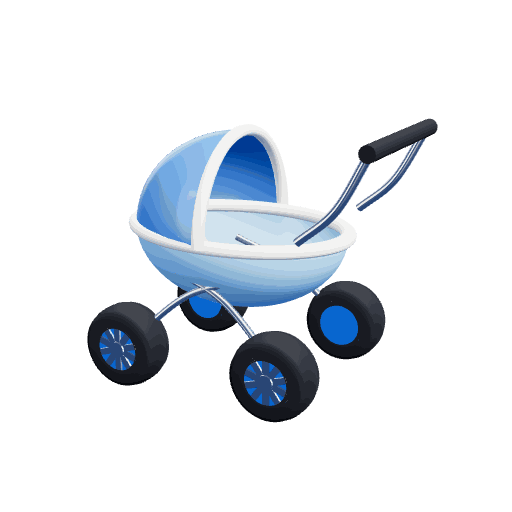
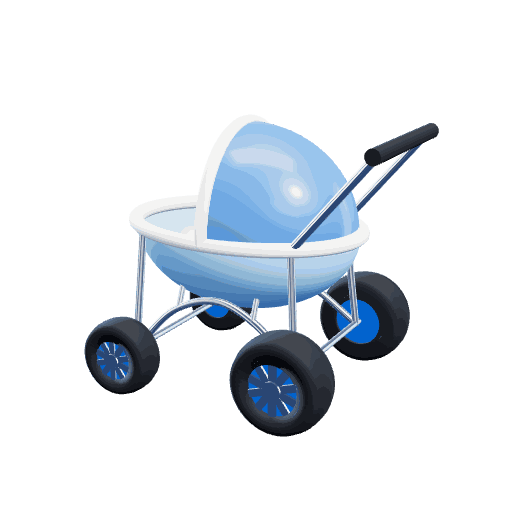
Globo e carrinho 3D consertados; Salvar fixo no Editar sonho e, ao salvar, abre o detalhe com a entrada 3D

Changed region(s): [[0.1562, 0.2188, 0.875, 0.875]]

diff --git a/app/basico.js b/app/basico.js
@@ -2040,7 +2040,7 @@ function basTelaRetro(o) {
       <div class="rt-gw${caiu ? ' dn' : ''}" data-p="${esc(JSON.stringify(pts.map((p) => [+p[0].toFixed(1), +p[1].toFixed(1)])))}"><svg class="rt-graf" viewBox="0 0 300 ${GH}"><defs><linearGradient id="rtA" x1="0" y1="0" x2="0" y2="1"><stop offset="0" stop-color="${caiu ? '#FF8A9A' : '#8FB0FF'}" stop-opacity=".5"/><stop offset="1" stop-color="${caiu ? '#FF8A9A' : '#8FB0FF'}" stop-opacity="0"/></linearGradient></defs>
       ${[.22, .45, .68, .9].map((f) => Math.round(f * GH)).map((y) => `<line x1="0" x2="300" y1="${y}" y2="${y}"/>`).join('')}<path class="ar" d="${lin} L${ult[0].toFixed(1)} ${GH} L${pts[0][0].toFixed(1)} ${GH} Z"/><path class="ln" pathLength="1" d="${lin}"/><circle class="pt" cx="${ult[0].toFixed(1)}" cy="${ult[1].toFixed(1)}" r="7"/></svg>
       <div class="rt-gm">${rot.map((r) => `<span>${r}</span>`).join('')}</div></div>`],
-    ...(g ? [['sonho', 'azul', '', `<div class="rt-sonho o3" data-tipo="${esc(obj3dDe(g))}"><i class="rt-orb"></i><i class="rt-halo"></i>${Array.from({ length: 5 }, (_, k) => `<i class="rt-est" style="--k:${k}"></i>`).join('')}<div class="rt-o3">${obj3dHtml(obj3dDe(g))}</div><img src="assets/img/o3/${esc(obj3dDe(g))}.png?v=3" alt=""><span class="bas-rt-si">${objIcone(g, 0)}</span></div>
+    ...(g ? [['sonho', 'azul', '', `<div class="rt-sonho o3" data-tipo="${esc(obj3dDe(g))}"><i class="rt-orb"></i><i class="rt-halo"></i>${Array.from({ length: 5 }, (_, k) => `<i class="rt-est" style="--k:${k}"></i>`).join('')}<div class="rt-o3">${obj3dHtml(obj3dDe(g))}</div><img src="assets/img/o3/${esc(obj3dDe(g))}.png?v=4" alt=""><span class="bas-rt-si">${objIcone(g, 0)}</span></div>
       <small>Seu sonho</small><h3 class="rt-h">${basRtKt(esc(objNomeDe(g)))}</h3><div class="bas-rt-sb"><i style="--p:${Math.min(1, g.progresso || 0).toFixed(3)}"></i></div><p><em>${pct(g.progresso || 0)}</em> do caminho${g.falta > 0 ? ` · faltam ${brl0(g.falta)}` : ' · chegou lá!'}</p>`]] : []),
     ['fim', 'fim', ruim ? '' : `<div class="rt-confete">${Array.from({ length: 26 }, (_, k) => `<i style="--x:${(k * 29 + 3) % 98}%;--d:${((k * 0.17) % 1.6).toFixed(2)}s;--r:${(k % 2 ? 1 : -1) * (360 + (k % 5) * 140)}deg;--c:${['#FFFFFF', '#FFD66B', '#8CF7B8', '#A9C2FF', '#FF9EC2'][k % 5]}"></i>`).join('')}</div>`,
       `<small>Esse foi o seu ${MES_LONGO[m]}</small><h2 class="rt-h">${basRtKt(ruim ? 'Mês fechado. Bora ajustar a rota.' : 'Mês fechado. Bonito de ver.')}</h2><div class="bas-rt-res"><span><small>Entrou</small><b>${brl0(ent)}</b></span><span><small>Saiu</small><b${estourou ? ' class="neg"' : ''}>${brl0(sai)}</b></span>${falta ? `<span><small>Faltou</small><b class="neg">${brl0(-sob)}</b></span>` : `<span><small>Guardou</small><b>${pct(guardP)}</b></span>`}${resg ? `<span><small>Resgatou</small><b class="neg">${brl0(-apM)}</b></span>` : `<span><small>Investiu</small><b>${brl0(apM)}</b></span>`}</div>
@@ -2496,7 +2496,7 @@ const r2Bas = (v) => Math.round((+v || 0) * 100) / 100;
 // ===== Sonhos, refeitos (pedido do Nathan, referências de apps de bolsos e do fluxo de criação do Believe) =====
 // arte do sonho: a miniatura do objeto 3D (desenhada uma vez, objMiniLigar) sobre um degradê; sem WebGL fica o ícone
 const basSnPct = (g) => (Math.max(0, Math.min(1, +g.progresso || 0)) * 100).toFixed(1);
-const basSnArte = (g, i, cls) => `<span class="bas-sn2-arte${cls ? ' ' + cls : ''}" aria-hidden="true"><span class="bas-sn2-ic">${objIcone(g, i || 0)}</span><img class="o3p" alt="" src="assets/img/o3/${esc(obj3dDe(g))}.png?v=3" decoding="async"></span>`;
+const basSnArte = (g, i, cls) => `<span class="bas-sn2-arte${cls ? ' ' + cls : ''}" aria-hidden="true"><span class="bas-sn2-ic">${objIcone(g, i || 0)}</span><img class="o3p" alt="" src="assets/img/o3/${esc(obj3dDe(g))}.png?v=4" decoding="async"></span>`;
 function basTelaSonhos() {
   const A = objAnalise(); const g = objFoco(A); const L = A.itens;
   const topo = g ? `<div class="bas-sn2-hero"><span class="bas-sn2-flut">${basSnArte(g, 0, 'hero')}</span>
@@ -2539,7 +2539,7 @@ function basTelaSonhoEd(o) {
   const topo = `<div class="bas-sn2-hero bas-sne-hero"><span class="bas-sn2-flut">${basSnArte({ tipo: st.tipo, modelo: st.modelo }, 0, 'hero')}</span><small class="bas-pv2-k">Editando</small><b class="bas-sn2-hn">${esc(st.nome || nomeT(st.tipo))}</b></div>`;
   const folha = `<section class="bas-sne-sec"><small class="bas-sne-k">Tipo</small>
       <div class="bas-sne-tipos" role="radiogroup" aria-label="Tipo de sonho">${OBJETIVOS.map(([k, nm]) => `<button type="button" class="bas-sne-tp${k === st.tipo ? ' on' : ''}" data-act="bas-sne-tipo" data-v="${k}" role="radio" aria-checked="${k === st.tipo}">${basSnArte({ tipo: k }, 0, 'ri')}<span>${esc(nm)}</span></button>`).join('')}</div></section>
-    ${(typeof O3_VARIA !== 'undefined' && (O3_VARIA[st.tipo] || []).length > 1) ? `<section class="bas-sne-sec"><small class="bas-sne-k">Modelo</small><div class="bas-sne-mods" role="radiogroup" aria-label="Modelo do sonho">${O3_VARIA[st.tipo].map(([k, nm], i) => { const on = (st.modelo || O3_VARIA[st.tipo][0][0]) === k; return `<button type="button" class="bas-sne-tp${on ? ' on' : ''}" data-act="bas-sne-mod" data-v="${k}" role="radio" aria-checked="${on}"><span class="bas-sn2-arte ri" aria-hidden="true"><img class="o3p" alt="" src="assets/img/o3/${k}.png?v=3" decoding="async"></span><span>${esc(nm)}</span></button>`; }).join('')}</div></section>` : ''}
+    ${(typeof O3_VARIA !== 'undefined' && (O3_VARIA[st.tipo] || []).length > 1) ? `<section class="bas-sne-sec"><small class="bas-sne-k">Modelo</small><div class="bas-sne-mods" role="radiogroup" aria-label="Modelo do sonho">${O3_VARIA[st.tipo].map(([k, nm], i) => { const on = (st.modelo || O3_VARIA[st.tipo][0][0]) === k; return `<button type="button" class="bas-sne-tp${on ? ' on' : ''}" data-act="bas-sne-mod" data-v="${k}" role="radio" aria-checked="${on}"><span class="bas-sn2-arte ri" aria-hidden="true"><img class="o3p" alt="" src="assets/img/o3/${k}.png?v=4" decoding="async"></span><span>${esc(nm)}</span></button>`; }).join('')}</div></section>` : ''}
     <section class="card bas-sne-cx">
       <label class="bas-sne-l"><small>Nome</small><input data-sn2="nome" value="${esc(st.nome)}" placeholder="${esc(nomeT(st.tipo))}" maxlength="40" aria-label="Nome do sonho"></label>
       <label class="bas-sne-l"><small>Quanto custa</small><span class="bas-sne-rs"><em>R$</em><input data-sn2="valor" value="${esc(st.valor)}" inputmode="decimal" placeholder="0" aria-label="Quanto custa, em reais"></span></label>
@@ -2547,7 +2547,7 @@ function basTelaSonhoEd(o) {
         <button type="button" class="bas-sn2-semp bas-sne-semp${st.ano ? '' : ' on'}" data-act="bas-sn2-ano" data-v="0">Sem prazo</button></div></section>
     <section class="card bas-sne-cx">${principal ? `<div class="bas-sne-pri on"><span class="bas-sne-pi" aria-hidden="true">★</span><span><b>Seu sonho principal</b><small>Ele aparece em destaque no Início</small></span></div>`
       : `<button type="button" class="bas-sne-pri" data-act="bas-foco" data-id="${esc(g.id)}"><span class="bas-sne-pi" aria-hidden="true">☆</span><span><b>Tornar o principal</b><small>Ele passa a aparecer em destaque no Início</small></span>${I.chev}</button>`}</section>
-    <button class="btn primary lg bas-cta bas-sne-ok" data-act="bas-sn2-criar">Salvar alterações</button>
+    <div class="bas-salvar bas-sne-salvar"><button class="btn primary lg bas-cta bas-sne-ok" data-act="bas-sn2-criar">Salvar alterações</button></div>
     <button type="button" class="bas-sne-del" data-act="bas-sn2-del">Excluir sonho</button>`;
   return basPgAzul('bas-pg-sne', 'Editar sonho', topo, folha);
 }
@@ -2662,7 +2662,10 @@ function basVozLigar() {
 function basSn2Criar() {
   const st = S.basSn2; const L = objLista();
   if (st.ed) { const g = L.find((x) => x.id === st.ed); const v = parseReais(st.valor); if (!g) return; if (!(v > 0)) { toast('Informe quanto o sonho custa.'); return; }
-    Object.assign(g, { tipo: st.tipo, nome: (st.nome || '').trim(), valor: E.r2(v), ano: st.ano || null }, st.modelo != null ? { modelo: st.modelo || '' } : {}); objSalvar(); basSom('ok'); basRetorno('ok'); basFechar(); toast('Sonho atualizado.'); return; }
+    Object.assign(g, { tipo: st.tipo, nome: (st.nome || '').trim(), valor: E.r2(v), ano: st.ano || null }, st.modelo != null ? { modelo: st.modelo || '' } : {}); objSalvar(); basSom('ok'); basRetorno('ok'); if (typeof O3 !== 'undefined' && O3) O3.tipo = ''; // a entrada 3D roda de novo
+    const pi = basPilha(); const ant = pi[pi.length - 2]; if (ant && ant.t === 'sonho-det' && ant.id === g.id) basFechar(); // veio do detalhe: volta para ele
+    else { pi[pi.length - 1] = { t: 'sonho-det', id: g.id, volta: pi[pi.length - 1].volta }; basTransicao('vai', () => { render(); window.scrollTo(0, 0); }); } // senão, o detalhe toma o lugar da edição
+    toast('Sonho atualizado.'); return; }
   if (L.length >= 12) { toast('Você chegou ao limite de 12 sonhos.'); return; }
   const v = parseReais(st.valor); if (!(v > 0)) { toast('Informe quanto o sonho custa.'); const i = document.querySelector('[data-sn2="valor"]'); if (i) i.focus(); return; }
   const alvo = Object.assign({ id: uid() }, L.length ? { modo: 'marco', pct: 0 } : { modo: 'fatia', pct: 100 }, { tipo: st.tipo, nome: (st.nome || '').trim(), valor: E.r2(v), ano: st.ano || null });

diff --git a/assets/js/basico.js b/assets/js/basico.js
@@ -2040,7 +2040,7 @@ function basTelaRetro(o) {
       <div class="rt-gw${caiu ? ' dn' : ''}" data-p="${esc(JSON.stringify(pts.map((p) => [+p[0].toFixed(1), +p[1].toFixed(1)])))}"><svg class="rt-graf" viewBox="0 0 300 ${GH}"><defs><linearGradient id="rtA" x1="0" y1="0" x2="0" y2="1"><stop offset="0" stop-color="${caiu ? '#FF8A9A' : '#8FB0FF'}" stop-opacity=".5"/><stop offset="1" stop-color="${caiu ? '#FF8A9A' : '#8FB0FF'}" stop-opacity="0"/></linearGradient></defs>
       ${[.22, .45, .68, .9].map((f) => Math.round(f * GH)).map((y) => `<line x1="0" x2="300" y1="${y}" y2="${y}"/>`).join('')}<path class="ar" d="${lin} L${ult[0].toFixed(1)} ${GH} L${pts[0][0].toFixed(1)} ${GH} Z"/><path class="ln" pathLength="1" d="${lin}"/><circle class="pt" cx="${ult[0].toFixed(1)}" cy="${ult[1].toFixed(1)}" r="7"/></svg>
       <div class="rt-gm">${rot.map((r) => `<span>${r}</span>`).join('')}</div></div>`],
-    ...(g ? [['sonho', 'azul', '', `<div class="rt-sonho o3" data-tipo="${esc(obj3dDe(g))}"><i class="rt-orb"></i><i class="rt-halo"></i>${Array.from({ length: 5 }, (_, k) => `<i class="rt-est" style="--k:${k}"></i>`).join('')}<div class="rt-o3">${obj3dHtml(obj3dDe(g))}</div><img src="assets/img/o3/${esc(obj3dDe(g))}.png?v=3" alt=""><span class="bas-rt-si">${objIcone(g, 0)}</span></div>
+    ...(g ? [['sonho', 'azul', '', `<div class="rt-sonho o3" data-tipo="${esc(obj3dDe(g))}"><i class="rt-orb"></i><i class="rt-halo"></i>${Array.from({ length: 5 }, (_, k) => `<i class="rt-est" style="--k:${k}"></i>`).join('')}<div class="rt-o3">${obj3dHtml(obj3dDe(g))}</div><img src="assets/img/o3/${esc(obj3dDe(g))}.png?v=4" alt=""><span class="bas-rt-si">${objIcone(g, 0)}</span></div>
       <small>Seu sonho</small><h3 class="rt-h">${basRtKt(esc(objNomeDe(g)))}</h3><div class="bas-rt-sb"><i style="--p:${Math.min(1, g.progresso || 0).toFixed(3)}"></i></div><p><em>${pct(g.progresso || 0)}</em> do caminho${g.falta > 0 ? ` · faltam ${brl0(g.falta)}` : ' · chegou lá!'}</p>`]] : []),
     ['fim', 'fim', ruim ? '' : `<div class="rt-confete">${Array.from({ length: 26 }, (_, k) => `<i style="--x:${(k * 29 + 3) % 98}%;--d:${((k * 0.17) % 1.6).toFixed(2)}s;--r:${(k % 2 ? 1 : -1) * (360 + (k % 5) * 140)}deg;--c:${['#FFFFFF', '#FFD66B', '#8CF7B8', '#A9C2FF', '#FF9EC2'][k % 5]}"></i>`).join('')}</div>`,
       `<small>Esse foi o seu ${MES_LONGO[m]}</small><h2 class="rt-h">${basRtKt(ruim ? 'Mês fechado. Bora ajustar a rota.' : 'Mês fechado. Bonito de ver.')}</h2><div class="bas-rt-res"><span><small>Entrou</small><b>${brl0(ent)}</b></span><span><small>Saiu</small><b${estourou ? ' class="neg"' : ''}>${brl0(sai)}</b></span>${falta ? `<span><small>Faltou</small><b class="neg">${brl0(-sob)}</b></span>` : `<span><small>Guardou</small><b>${pct(guardP)}</b></span>`}${resg ? `<span><small>Resgatou</small><b class="neg">${brl0(-apM)}</b></span>` : `<span><small>Investiu</small><b>${brl0(apM)}</b></span>`}</div>
@@ -2496,7 +2496,7 @@ const r2Bas = (v) => Math.round((+v || 0) * 100) / 100;
 // ===== Sonhos, refeitos (pedido do Nathan, referências de apps de bolsos e do fluxo de criação do Believe) =====
 // arte do sonho: a miniatura do objeto 3D (desenhada uma vez, objMiniLigar) sobre um degradê; sem WebGL fica o ícone
 const basSnPct = (g) => (Math.max(0, Math.min(1, +g.progresso || 0)) * 100).toFixed(1);
-const basSnArte = (g, i, cls) => `<span class="bas-sn2-arte${cls ? ' ' + cls : ''}" aria-hidden="true"><span class="bas-sn2-ic">${objIcone(g, i || 0)}</span><img class="o3p" alt="" src="assets/img/o3/${esc(obj3dDe(g))}.png?v=3" decoding="async"></span>`;
+const basSnArte = (g, i, cls) => `<span class="bas-sn2-arte${cls ? ' ' + cls : ''}" aria-hidden="true"><span class="bas-sn2-ic">${objIcone(g, i || 0)}</span><img class="o3p" alt="" src="assets/img/o3/${esc(obj3dDe(g))}.png?v=4" decoding="async"></span>`;
 function basTelaSonhos() {
   const A = objAnalise(); const g = objFoco(A); const L = A.itens;
   const topo = g ? `<div class="bas-sn2-hero"><span class="bas-sn2-flut">${basSnArte(g, 0, 'hero')}</span>
@@ -2539,7 +2539,7 @@ function basTelaSonhoEd(o) {
   const topo = `<div class="bas-sn2-hero bas-sne-hero"><span class="bas-sn2-flut">${basSnArte({ tipo: st.tipo, modelo: st.modelo }, 0, 'hero')}</span><small class="bas-pv2-k">Editando</small><b class="bas-sn2-hn">${esc(st.nome || nomeT(st.tipo))}</b></div>`;
   const folha = `<section class="bas-sne-sec"><small class="bas-sne-k">Tipo</small>
       <div class="bas-sne-tipos" role="radiogroup" aria-label="Tipo de sonho">${OBJETIVOS.map(([k, nm]) => `<button type="button" class="bas-sne-tp${k === st.tipo ? ' on' : ''}" data-act="bas-sne-tipo" data-v="${k}" role="radio" aria-checked="${k === st.tipo}">${basSnArte({ tipo: k }, 0, 'ri')}<span>${esc(nm)}</span></button>`).join('')}</div></section>
-    ${(typeof O3_VARIA !== 'undefined' && (O3_VARIA[st.tipo] || []).length > 1) ? `<section class="bas-sne-sec"><small class="bas-sne-k">Modelo</small><div class="bas-sne-mods" role="radiogroup" aria-label="Modelo do sonho">${O3_VARIA[st.tipo].map(([k, nm], i) => { const on = (st.modelo || O3_VARIA[st.tipo][0][0]) === k; return `<button type="button" class="bas-sne-tp${on ? ' on' : ''}" data-act="bas-sne-mod" data-v="${k}" role="radio" aria-checked="${on}"><span class="bas-sn2-arte ri" aria-hidden="true"><img class="o3p" alt="" src="assets/img/o3/${k}.png?v=3" decoding="async"></span><span>${esc(nm)}</span></button>`; }).join('')}</div></section>` : ''}
+    ${(typeof O3_VARIA !== 'undefined' && (O3_VARIA[st.tipo] || []).length > 1) ? `<section class="bas-sne-sec"><small class="bas-sne-k">Modelo</small><div class="bas-sne-mods" role="radiogroup" aria-label="Modelo do sonho">${O3_VARIA[st.tipo].map(([k, nm], i) => { const on = (st.modelo || O3_VARIA[st.tipo][0][0]) === k; return `<button type="button" class="bas-sne-tp${on ? ' on' : ''}" data-act="bas-sne-mod" data-v="${k}" role="radio" aria-checked="${on}"><span class="bas-sn2-arte ri" aria-hidden="true"><img class="o3p" alt="" src="assets/img/o3/${k}.png?v=4" decoding="async"></span><span>${esc(nm)}</span></button>`; }).join('')}</div></section>` : ''}
     <section class="card bas-sne-cx">
       <label class="bas-sne-l"><small>Nome</small><input data-sn2="nome" value="${esc(st.nome)}" placeholder="${esc(nomeT(st.tipo))}" maxlength="40" aria-label="Nome do sonho"></label>
       <label class="bas-sne-l"><small>Quanto custa</small><span class="bas-sne-rs"><em>R$</em><input data-sn2="valor" value="${esc(st.valor)}" inputmode="decimal" placeholder="0" aria-label="Quanto custa, em reais"></span></label>
@@ -2547,7 +2547,7 @@ function basTelaSonhoEd(o) {
         <button type="button" class="bas-sn2-semp bas-sne-semp${st.ano ? '' : ' on'}" data-act="bas-sn2-ano" data-v="0">Sem prazo</button></div></section>
     <section class="card bas-sne-cx">${principal ? `<div class="bas-sne-pri on"><span class="bas-sne-pi" aria-hidden="true">★</span><span><b>Seu sonho principal</b><small>Ele aparece em destaque no Início</small></span></div>`
       : `<button type="button" class="bas-sne-pri" data-act="bas-foco" data-id="${esc(g.id)}"><span class="bas-sne-pi" aria-hidden="true">☆</span><span><b>Tornar o principal</b><small>Ele passa a aparecer em destaque no Início</small></span>${I.chev}</button>`}</section>
-    <button class="btn primary lg bas-cta bas-sne-ok" data-act="bas-sn2-criar">Salvar alterações</button>
+    <div class="bas-salvar bas-sne-salvar"><button class="btn primary lg bas-cta bas-sne-ok" data-act="bas-sn2-criar">Salvar alterações</button></div>
     <button type="button" class="bas-sne-del" data-act="bas-sn2-del">Excluir sonho</button>`;
   return basPgAzul('bas-pg-sne', 'Editar sonho', topo, folha);
 }
@@ -2662,7 +2662,10 @@ function basVozLigar() {
 function basSn2Criar() {
   const st = S.basSn2; const L = objLista();
   if (st.ed) { const g = L.find((x) => x.id === st.ed); const v = parseReais(st.valor); if (!g) return; if (!(v > 0)) { toast('Informe quanto o sonho custa.'); return; }
-    Object.assign(g, { tipo: st.tipo, nome: (st.nome || '').trim(), valor: E.r2(v), ano: st.ano || null }, st.modelo != null ? { modelo: st.modelo || '' } : {}); objSalvar(); basSom('ok'); basRetorno('ok'); basFechar(); toast('Sonho atualizado.'); return; }
+    Object.assign(g, { tipo: st.tipo, nome: (st.nome || '').trim(), valor: E.r2(v), ano: st.ano || null }, st.modelo != null ? { modelo: st.modelo || '' } : {}); objSalvar(); basSom('ok'); basRetorno('ok'); if (typeof O3 !== 'undefined' && O3) O3.tipo = ''; // a entrada 3D roda de novo
+    const pi = basPilha(); const ant = pi[pi.length - 2]; if (ant && ant.t === 'sonho-det' && ant.id === g.id) basFechar(); // veio do detalhe: volta para ele
+    else { pi[pi.length - 1] = { t: 'sonho-det', id: g.id, volta: pi[pi.length - 1].volta }; basTransicao('vai', () => { render(); window.scrollTo(0, 0); }); } // senão, o detalhe toma o lugar da edição
+    toast('Sonho atualizado.'); return; }
   if (L.length >= 12) { toast('Você chegou ao limite de 12 sonhos.'); return; }
   const v = parseReais(st.valor); if (!(v > 0)) { toast('Informe quanto o sonho custa.'); const i = document.querySelector('[data-sn2="valor"]'); if (i) i.focus(); return; }
   const alvo = Object.assign({ id: uid() }, L.length ? { modo: 'marco', pct: 0 } : { modo: 'fatia', pct: 100 }, { tipo: st.tipo, nome: (st.nome || '').trim(), valor: E.r2(v), ano: st.ano || null });

diff --git a/assets/js/obj3d.js b/assets/js/obj3d.js
@@ -772,17 +772,17 @@ const O3_OBJ = {
       x.fillStyle = '#F4F8FC'; x.fillRect(0, h * 0.93, w, h * 0.07); }, 1024, 512);
     const globo = new T.Group(); globo.position.y = 0.2; globo.rotation.z = -0.41; g.add(globo); // eixo inclinado como o da Terra
     const terra = new T.Mesh(new T.SphereGeometry(0.62, 64, 40), new T.MeshPhysicalMaterial({ map: mapa, roughness: 0.35, clearcoat: 0.8, clearcoatRoughness: 0.1 })); terra.rotation.y = -0.6; globo.add(o3Pose(terra));
-    const arco = o3Arco(0.69, 0.022, Math.PI * 1.15, M.ouro, 80); arco.rotation.z = Math.PI / 2 - 0.08; globo.add(arco);
-    [0.7, -0.7].forEach((y) => { const p = new T.Mesh(new T.SphereGeometry(0.035, 16, 12), M.ouro); p.position.y = y; globo.add(p); });
-    const pe = new T.Vector3(0, -0.72, 0).applyAxisAngle(new T.Vector3(0, 0, 1), -0.41); pe.y += 0.2; // pé do meridiano
-    const haste = new T.Mesh(new T.CylinderGeometry(0.035, 0.05, pe.y + 0.76, 16), M.ouro); haste.position.set(pe.x, (pe.y - 0.76) / 2, 0); g.add(haste);
-    const base = o3Tambor(0.36, 0.1, 0.04, M.madeira); base.position.set(pe.x, -0.8, 0); g.add(base);
-    // órbita: grupo inclinado; o avião e o rastro giram juntos em torno do globo
+    // meridiano: anel concêntrico ao globo, no plano do eixo; sai do polo norte, passa pelo polo sul e termina no ponto mais baixo, onde a haste reta encaixa
+    const inc = 0.41, Rm = 0.69, aN = Math.PI / 2 - inc; const arco = o3Arco(Rm, 0.022, Math.PI * 1.5 - aN, M.ouro, 80); arco.rotation.z = aN; arco.position.y = 0.2; g.add(arco);
+    [1, -1].forEach((k) => { const eixo = new T.Mesh(new T.CylinderGeometry(0.016, 0.016, 0.12, 12), M.ouro); eixo.position.y = k * 0.65; globo.add(eixo); const p = new T.Mesh(new T.SphereGeometry(0.035, 16, 12), M.ouro); p.position.y = k * Rm; globo.add(p); }); // pinos nos polos
+    const haste = new T.Mesh(new T.CylinderGeometry(0.035, 0.05, 0.26, 16), M.ouro); haste.position.y = 0.2 - Rm - 0.13; g.add(haste);
+    const base = o3Tambor(0.36, 0.1, 0.04, M.madeira); base.position.y = -0.8; g.add(base);
+    // órbita: grupo inclinado; o avião e o rastro giram juntos em torno do globo (rastro curto: some junto com o avião atrás do globo)
     const orb = new T.Group(); orb.position.y = 0.2; orb.rotation.set(0.35, 0, 0.22); g.add(orb); const voo = new T.Group(); orb.add(o3Pose(voo)); const R = 0.92;
     const av = new T.Group(); const S = new T.SphereGeometry(1, 24, 16); const fu = new T.Mesh(S, M.branco); fu.scale.set(0.045, 0.045, 0.17); av.add(fu);
     const asa = o3Bloco(0.34, 0.016, 0.08, 0.008, M.branco); asa.position.z = 0.01; av.add(asa); const cau = o3Bloco(0.012, 0.07, 0.05, 0.006, M.azul); cau.position.set(0, 0.045, -0.13); av.add(cau);
-    const est = o3Bloco(0.13, 0.012, 0.04, 0.006, M.branco); est.position.z = -0.13; av.add(est); av.position.set(R, 0, 0); av.rotation.set(0, Math.PI, 0.25); voo.add(av); // nariz em +z: tangente à órbita
-    const pts = new T.InstancedMesh(new T.SphereGeometry(0.013, 8, 6), M.nuvem, 14); const mx = new T.Matrix4(); for (let i = 0; i < 14; i++) { const a = -0.22 - i * 0.12; mx.makeTranslation(Math.cos(a) * R, 0, -Math.sin(a) * R); pts.setMatrixAt(i, mx); } voo.add(pts);
+    const est = o3Bloco(0.13, 0.012, 0.04, 0.006, M.branco); est.position.z = -0.13; av.add(est); av.position.set(R, 0, 0); av.rotation.set(0, Math.PI, 0.25); av.scale.setScalar(1.25); voo.add(av); // nariz em +z: tangente à órbita
+    const pts = new T.InstancedMesh(new T.SphereGeometry(0.013, 8, 6), M.nuvem, 8); const mx = new T.Matrix4(); for (let i = 0; i < 8; i++) { const a = -0.2 - i * 0.1; mx.makeTranslation(Math.cos(a) * R, 0, -Math.sin(a) * R); pts.setMatrixAt(i, mx); } voo.add(pts);
     voo.rotation.y = 0.55; o3Pose(voo);
     g.rotation.set(0.12, 0, 0); g.userData.dur = 2.1;
     g.userData.entra = (e, t) => {
@@ -820,23 +820,30 @@ const O3_OBJ = {
     };
     return g;
   },
-  // carrinho de bebê: cesto e capota azul-bebê com frisos, alça, armação cromada e quatro rodas; chega rodando, balança e a capota abre
+  // carrinho de bebê: cesto e capota azul-bebê com frisos, armação cromada inteira (eixos, arcos sob o cesto, montantes até a borda e alça), rodas de trás maiores; chega rodando, balança e a capota abre
   'filhos-carrinho'(M) {
     const T = THREE; const g = new T.Group(); const car = new T.Group(); g.add(car); const cesto = new T.Group(); car.add(cesto); const DS = T.DoubleSide;
     const azul = o3Cor(0x8CC4F0, { roughness: 0.4, side: DS }); const capM = o3Cor(0x3C77C9, { roughness: 0.42, side: DS }); const creme = o3Cor(0xFFF6E6, { roughness: 0.45 });
     const bojo = new T.Mesh(new T.SphereGeometry(0.5, 48, 20, 0, Math.PI * 2, Math.PI / 2, Math.PI / 2), azul); bojo.scale.set(1.15, 0.8, 0.82); cesto.add(bojo);
     const borda = new T.Mesh(new T.TorusGeometry(0.5, 0.035, 12, 64), creme); borda.rotation.x = Math.PI / 2; borda.scale.set(1.15, 0.82, 1); cesto.add(borda);
-    const capota = new T.Group(); capota.position.x = 0.02; cesto.add(capota); const cp = new T.Mesh(new T.SphereGeometry(0.52, 40, 16, -Math.PI / 2, Math.PI, 0, Math.PI / 2), capM); cp.scale.set(1.12, 0.95, 0.84); capota.add(cp);
+    // capota do lado da alça (+x), sobre a cabeça do bebê
+    const capota = new T.Group(); cesto.add(capota); const cp = new T.Mesh(new T.SphereGeometry(0.52, 40, 16, Math.PI / 2, Math.PI, 0, Math.PI / 2), capM); cp.scale.set(1.08, 0.95, 0.8); capota.add(cp);
     const fr = o3Arco(0.52, 0.03, Math.PI, creme, 48); fr.rotation.y = Math.PI / 2; cp.add(fr); // friso na beira da capota
     o3Pose(capota); cesto.position.y = 0.78;
-    const tubo = (pts, r, mat) => { const c = new T.CatmullRomCurve3(pts.map(([x, y, z]) => new T.Vector3(x, y, z))); const m = o3Tubo(c, 32, r, mat); car.add(m); return m; };
-    tubo([[0.5, 0.86, 0.36], [0.68, 1.02, 0.36], [0.84, 1.3, 0.36]], 0.022, M.cromo); tubo([[0.5, 0.86, -0.36], [0.68, 1.02, -0.36], [0.84, 1.3, -0.36]], 0.022, M.cromo);
-    const pega = new T.Mesh(new T.CylinderGeometry(0.04, 0.04, 0.8, 16), M.borracha); pega.rotation.x = Math.PI / 2; pega.position.set(0.84, 1.3, 0); car.add(pega);
-    [1, -1].forEach((d) => { tubo([[-0.42, 0.22, d * 0.38], [-0.1, 0.5, d * 0.34], [0.2, 0.62, d * 0.32]], 0.018, M.cromo); tubo([[0.42, 0.22, d * 0.38], [0.1, 0.5, d * 0.34], [-0.2, 0.62, d * 0.32]], 0.018, M.cromo); });
-    const rodas = [[-0.42, 1], [0.42, 1], [-0.42, -1], [0.42, -1]].map(([x, d]) => { const r = o3Roda(M, 0.92, M.azul); r.position.set(x, 0.21, d * 0.42); r.rotation.x = (d * Math.PI) / 2; car.add(r); return [r, d]; });
+    // rodas (as de trás, do lado da alça, maiores) e eixos de lado a lado
+    const W = [[0.44, 1.0], [-0.42, 0.8]]; const rodas = [];
+    W.forEach(([x, s]) => { [1, -1].forEach((d) => { const r = o3Roda(M, s, M.azul); r.position.set(x, 0.23 * s, d * 0.47); r.rotation.x = (d * Math.PI) / 2; car.add(r); rodas.push([r, d, 0.23 * s]); });
+      o3Vara(car, [x, 0.23 * s, -0.47], [x, 0.23 * s, 0.47], 0.016, M.cromo); });
+    // armação de cada lado: arco sob o cesto (encosta no fundo), escoras, montantes dos eixos até a borda e a alça
+    [1, -1].forEach((d) => { const z = d * 0.35;
+      car.add(o3Tubo(new T.CatmullRomCurve3([[-0.42, 0.184, z], [-0.22, 0.4, z * 0.86], [0, 0.47, z * 0.8], [0.22, 0.4, z * 0.86], [0.44, 0.23, z]].map((p) => new T.Vector3(...p))), 40, 0.018, M.cromo));
+      [-0.2, 0.2].forEach((x) => o3Vara(car, [x, 0.41, z * 0.86], [x, 0.51, d * 0.26], 0.014, M.cromo));
+      o3Vara(car, [0.44, 0.23, z], [0.39, 0.78, d * 0.3], 0.018, M.cromo); o3Vara(car, [-0.42, 0.184, z], [-0.39, 0.78, d * 0.3], 0.018, M.cromo);
+      o3Vara(car, [0.39, 0.78, d * 0.3], [0.78, 1.24, d * 0.3], 0.02, M.cromo); });
+    const pega = new T.Mesh(new T.CylinderGeometry(0.036, 0.036, 0.72, 20), M.borracha); pega.rotation.x = Math.PI / 2; pega.position.set(0.78, 1.24, 0); car.add(pega);
     g.rotation.set(0.18, -0.5, 0); g.userData.dur = 2.0;
-    g.userData.entra = (e, t) => { const f = o3Saida(o3Faixa(e, 0, 0.55)); const dx = -(1 - f) * 3.6; car.position.x = dx; rodas.forEach(([r, d]) => { r.rotation.y = (-d * dx) / 0.21; });
-      const b = o3Faixa(e, 0.45, 1); cesto.rotation.z = -Math.sin(b * Math.PI * 3) * (1 - b) * 0.12 + Math.sin(t * 1.4) * 0.02 * e;
+    g.userData.entra = (e, t) => { const f = o3Saida(o3Faixa(e, 0, 0.55)); const dx = -(1 - f) * 3.6; car.position.x = dx; rodas.forEach(([r, d, R]) => { r.rotation.y = (-d * dx) / R; });
+      const b = o3Faixa(e, 0.45, 1); car.rotation.z = -Math.sin(b * Math.PI * 3) * (1 - b) * 0.05 + Math.sin(t * 1.4) * 0.008 * e; // balança inteiro, sem soltar a armação
       o3Repouso(capota); capota.rotation.z -= (1 - o3Mola(o3Faixa(e, 0.5, 0.85))) * 1.2; };
     return g;
   },

diff --git a/index.html b/index.html
@@ -62,7 +62,7 @@
 <script src="assets/js/dashboard.js?v=20261205m"></script>
 <script src="assets/js/frases.js?v=20261205m"></script>
 <script src="assets/js/objetivos.js?v=20261206o3"></script>
-<script src="assets/js/obj3d.js?v=20261206o4"></script>
+<script src="assets/js/obj3d.js?v=20261206o5"></script>
 <script src="assets/js/widgets.js?v=20261205m"></script>
 <script src="assets/js/ledger.js?v=20261205m"></script>
 <script src="assets/js/assets.js?v=20261205m"></script>
@@ -74,7 +74,7 @@
 <script src="assets/js/admin.js?v=20261205m"></script>
 <script src="assets/js/abertura.js?v=20261205m"></script>
 <script src="assets/js/tour.js?v=20261205m"></script>
-<script src="assets/js/basico.js?v=20261205q-ux1"></script>
+<script src="assets/js/basico.js?v=20261205r-o5"></script>
 <script src="assets/js/basico-org.js?v=org9"></script>
 <script src="assets/js/basico-sons.js?v=som1"></script>
 <script src="assets/js/ia-acoes.js?v=ia1"></script>

diff --git a/app/index.html b/app/index.html
@@ -64,7 +64,7 @@
 <script src="assets/js/dashboard.js?v=20261201a"></script>
 <script src="assets/js/frases.js?v=20261201a"></script>
 <script src="assets/js/objetivos.js?v=20261206o3"></script>
-<script src="assets/js/obj3d.js?v=20261206o4"></script>
+<script src="assets/js/obj3d.js?v=20261206o5"></script>
 <script src="assets/js/widgets.js?v=20261201a"></script>
 <script src="assets/js/ledger.js?v=20261201a"></script>
 <script src="assets/js/assets.js?v=20261201a"></script>
@@ -76,7 +76,7 @@
 <script src="assets/js/admin.js?v=20261201a"></script>
 <script src="assets/js/abertura.js?v=20261201a"></script>
 <script src="assets/js/tour.js?v=20261201a"></script>
-<script src="app/basico.js?v=20261205q-ux1"></script>
+<script src="app/basico.js?v=20261205r-o5"></script>
 <script src="assets/js/basico-org.js?v=org9"></script>
 <script src="assets/js/basico-sons.js?v=som1"></script>
 <script src="assets/js/ia-acoes.js?v=ia1"></script>
